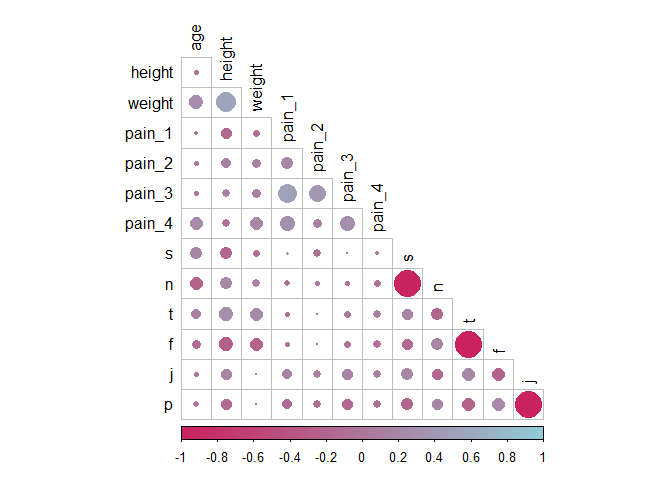
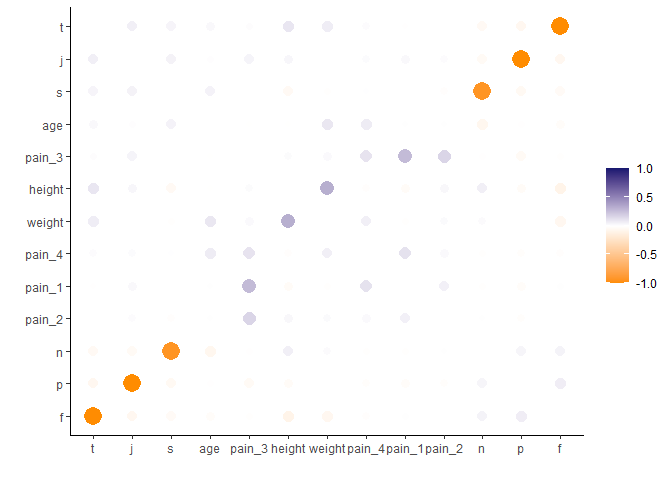
Update plots and chunk names

diff --git a/predicting_personality.md b/predicting_personality.md
@@ -59,7 +59,7 @@ library(readxl)
 library(janitor)
 library(visdat)
 library(naniar)
-library(corrplot)
+library(corrr)
 library(patchwork)
 library(glmnet)
 library(kknn)
@@ -192,13 +192,11 @@ head(data1)  # preview cleaned data
 ## 2.2 Correlation Between Features
 
 ``` r
-tmwr_cols <- colorRampPalette(c("#CA225E", "#91CBD765"))
-
 data1 %>%
     select_if(is.numeric) %>%
-    cor() %>%
-    corrplot(col = tmwr_cols(200), tl.col = "black", method = "circle", type = "lower",
-        diag = FALSE)
+    correlate() %>%
+    rearrange() %>%
+    rplot(colours = c("darkorange", "white", "midnightblue"))
 ```
 
 <img src="predicting_personality_files/figure-gfm/correlation plot-1.png" style="display: block; margin: auto;" />
@@ -261,7 +259,7 @@ p4 <- ggplot(data = data1, aes(x = posture, y = pain_4, fill = posture)) + geom_
 p1 + p2 + p3 + p4
 ```
 
-<img src="predicting_personality_files/figure-gfm/pain-plots-1.png" style="display: block; margin: auto;" />
+<img src="predicting_personality_files/figure-gfm/pain_plots-1.png" style="display: block; margin: auto;" />
 
 # 3 Model Setup
 
@@ -371,7 +369,7 @@ autoplot(grid_results, rank_metric = "roc_auc", metric = "roc_auc", select_best 
     0.8) + theme(legend.position = "none")
 ```
 
-<img src="predicting_personality_files/figure-gfm/unnamed-chunk-9-1.png" style="display: block; margin: auto;" />
+<img src="predicting_personality_files/figure-gfm/model_eval-1.png" style="display: block; margin: auto;" />
 
 ``` r
 grid_results %>%
@@ -393,7 +391,7 @@ grid_results %>%
 autoplot(grid_results, id = "corr_knn", metric = "roc_auc")
 ```
 
-<img src="predicting_personality_files/figure-gfm/unnamed-chunk-9-2.png" style="display: block; margin: auto;" />
+<img src="predicting_personality_files/figure-gfm/model_eval-2.png" style="display: block; margin: auto;" />
 
 ``` r
 best_knn <- grid_results %>%
@@ -410,7 +408,7 @@ knn_results %>%
     autoplot(type = "heatmap")
 ```
 
-<img src="predicting_personality_files/figure-gfm/unnamed-chunk-9-3.png" style="display: block; margin: auto;" />
+<img src="predicting_personality_files/figure-gfm/model_eval-3.png" style="display: block; margin: auto;" />
 
 ``` r
 knn_results %>%
@@ -420,7 +418,7 @@ knn_results %>%
     autoplot()
 ```
 
-<img src="predicting_personality_files/figure-gfm/unnamed-chunk-9-4.png" style="display: block; margin: auto;" />
+<img src="predicting_personality_files/figure-gfm/model_eval-4.png" style="display: block; margin: auto;" />
 \# Final Evaluation & Concluding Remarks
 
 ## 4.4 Model Evaluation on Testing Data
@@ -449,7 +447,7 @@ final_fit %>%
     autoplot(type = "heatmap")
 ```
 
-<img src="predicting_personality_files/figure-gfm/unnamed-chunk-10-1.png" style="display: block; margin: auto;" />
+<img src="predicting_personality_files/figure-gfm/test_model_eval-1.png" style="display: block; margin: auto;" />
 
 ``` r
 final_fit %>%
@@ -458,4 +456,4 @@ final_fit %>%
     autoplot()
 ```
 
-<img src="predicting_personality_files/figure-gfm/unnamed-chunk-10-2.png" style="display: block; margin: auto;" />
+<img src="predicting_personality_files/figure-gfm/test_model_eval-2.png" style="display: block; margin: auto;" />
